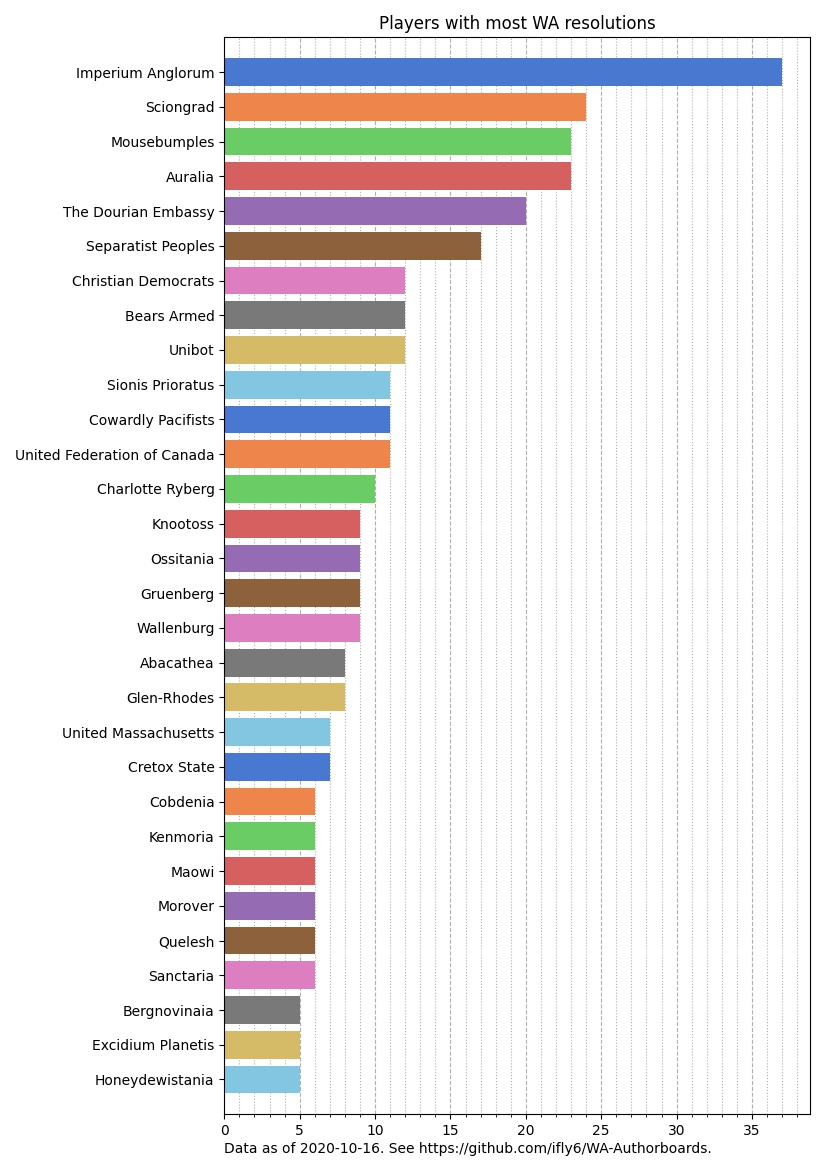
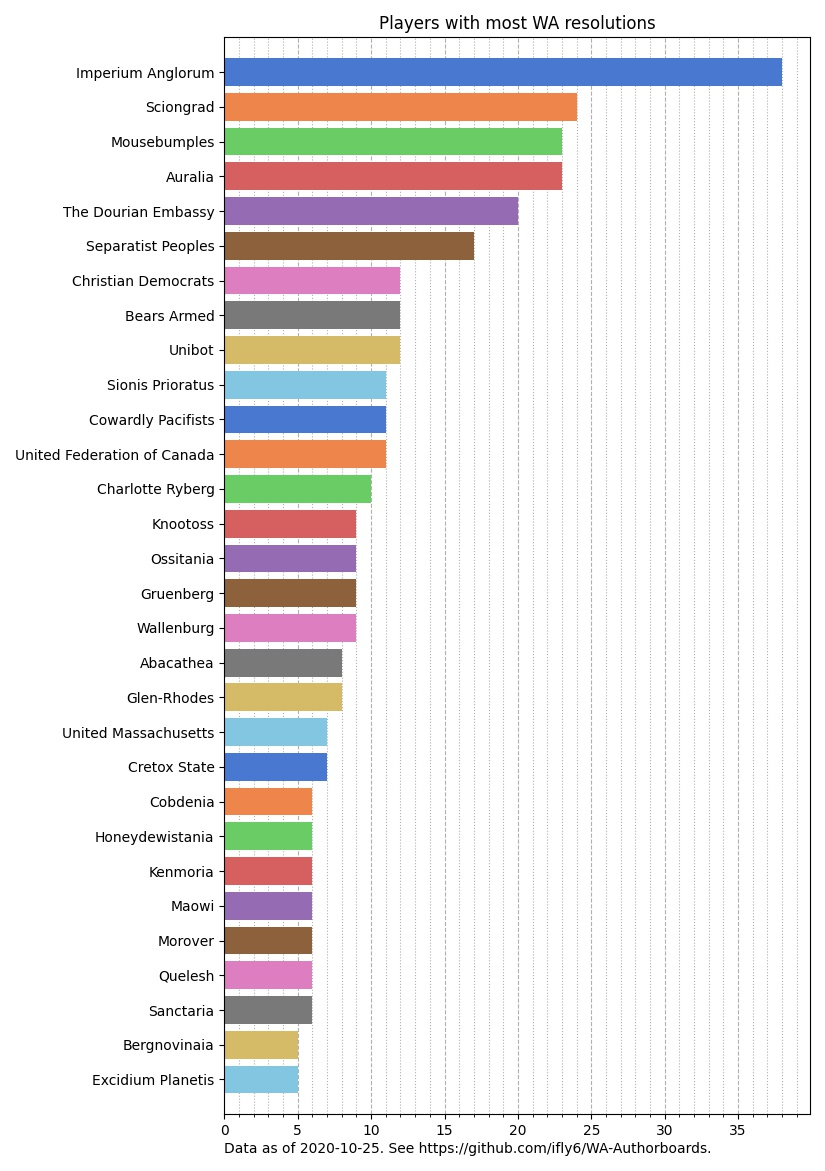
update for latest resolutions

diff --git a/md_output/leaderboard.md b/md_output/leaderboard.md
@@ -1,11 +1,11 @@
 | Name                                     |   Authored |   Co-authored |   Repeals |   Active |   Total |
 |:-----------------------------------------|-----------:|--------------:|----------:|---------:|--------:|
-| Imperium Anglorum                        |         32 |             5 |        15 |       18 |      37 |
+| Imperium Anglorum                        |         33 |             5 |        16 |       18 |      38 |
 | **[PLAYER]** Sciongrad                   |         19 |             5 |         7 |       10 |      24 |
 | Mousebumples                             |         16 |             7 |         9 |        8 |      23 |
-| **[PLAYER]** Auralia                     |         23 |             0 |         9 |       12 |      23 |
+| **[PLAYER]** Auralia                     |         23 |             0 |         9 |       11 |      23 |
 | The Dourian Embassy                      |         16 |             4 |        13 |        5 |      20 |
-| Auralia                                  |         19 |             0 |         8 |       11 |      19 |
+| Auralia                                  |         19 |             0 |         8 |       10 |      19 |
 | Separatist Peoples                       |         16 |             1 |         1 |       16 |      17 |
 | Sciongrad                                |         13 |             1 |         6 |        7 |      14 |
 | Christian Democrats                      |         11 |             1 |         2 |        6 |      12 |
@@ -28,6 +28,7 @@
 | **[PLAYER]** Cretox State                |          7 |             0 |         0 |        6 |       7 |
 | Cobdenia                                 |          4 |             2 |         0 |        5 |       6 |
 | Cretox State                             |          6 |             0 |         0 |        6 |       6 |
+| Honeydewistania                          |          6 |             0 |         2 |        4 |       6 |
 | Kenmoria                                 |          2 |             4 |         0 |        6 |       6 |
 | Maowi                                    |          5 |             1 |         0 |        5 |       6 |
 | Morover                                  |          6 |             0 |         2 |        4 |       6 |
@@ -38,7 +39,6 @@
 | Chester Pearson                          |          4 |             1 |         0 |        1 |       5 |
 | Cowardly Pacifists                       |          5 |             0 |         0 |        5 |       5 |
 | Excidium Planetis                        |          4 |             1 |         1 |        2 |       5 |
-| Honeydewistania                          |          5 |             0 |         2 |        3 |       5 |
 | Marxist Germany                          |          4 |             1 |         1 |        2 |       5 |
 | Quadrimmina                              |          2 |             3 |         0 |        4 |       5 |
 | Ransium                                  |          5 |             0 |         1 |        4 |       5 |
